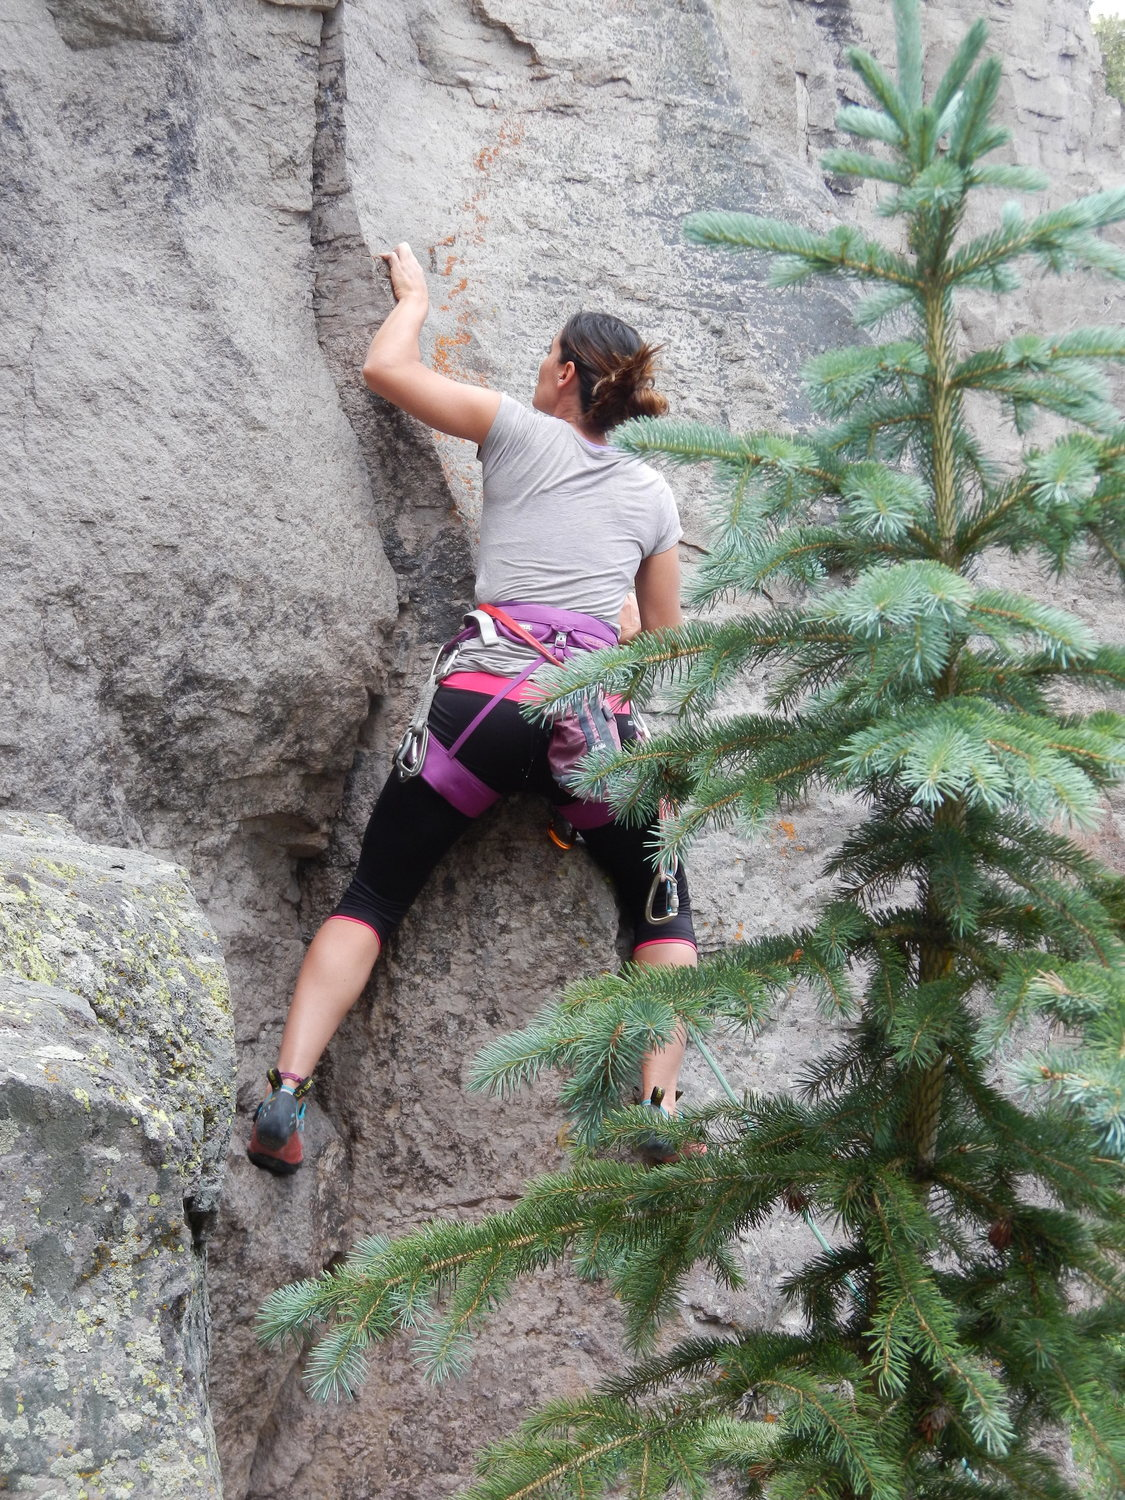
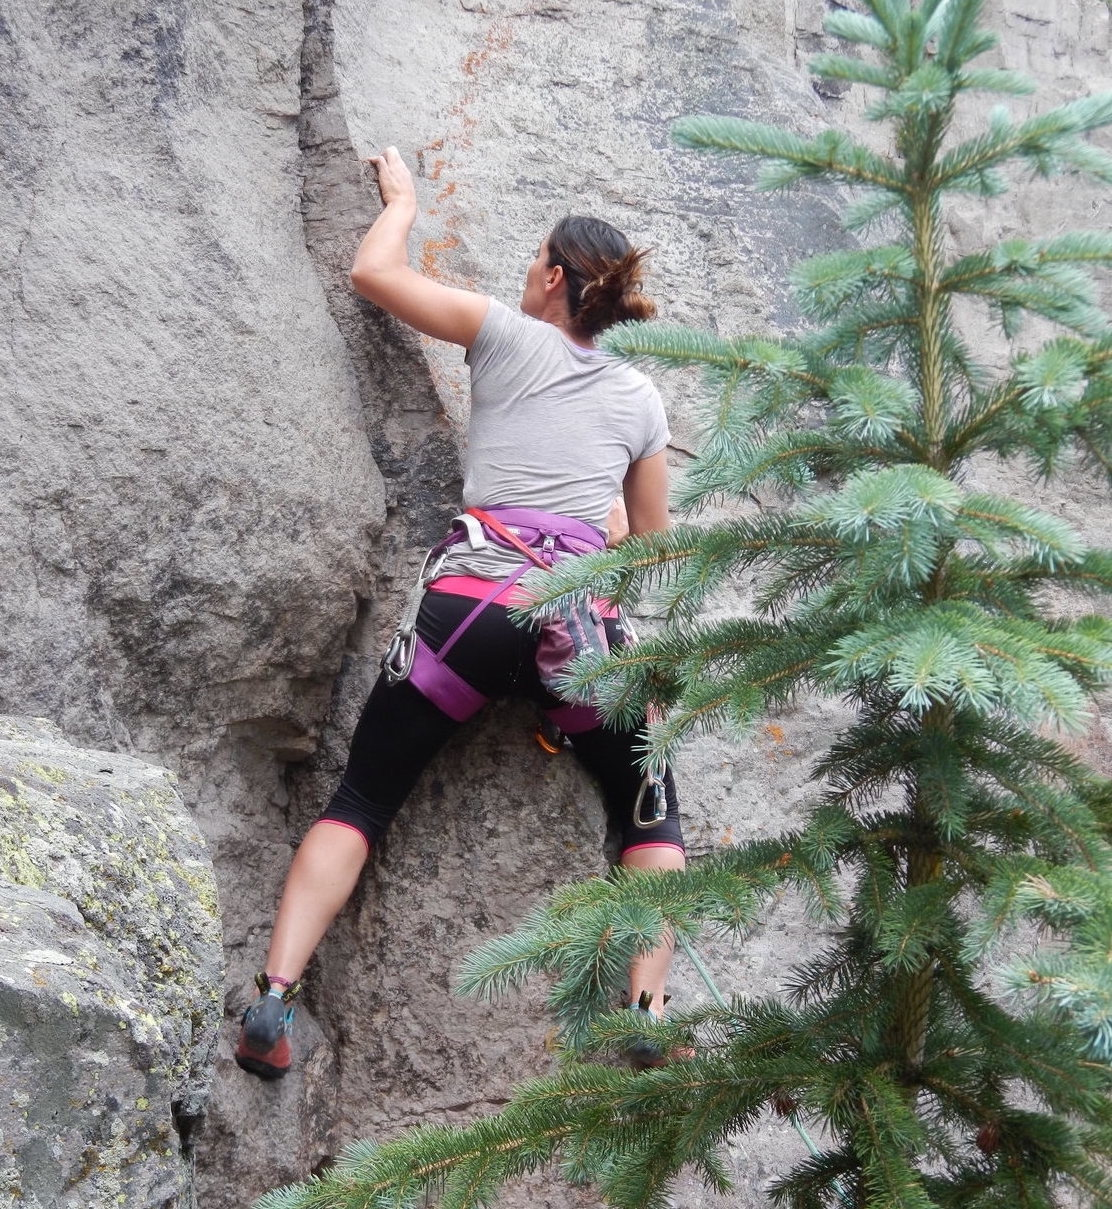
more updates

diff --git a/index.css b/index.css
@@ -90,7 +90,7 @@ img {
   height: 400px;
   width: auto;
   margin-right: 40px;
-  border-radius: 30px;
+  border-radius: 50%;
   
 }
 
@@ -146,7 +146,7 @@ input{
 }
 
 .table img{
-  border-radius: 30px;
+  border-radius: 50%;
   align-items: center;
   align-content: center;
   justify-content: center;
@@ -158,6 +158,7 @@ td img{
     margin-left: auto;
     margin-right: auto;
     margin-bottom: 8%;
+    border-radius: 50%;
 
 }
 

diff --git a/hobbies.html b/hobbies.html
@@ -53,7 +53,7 @@
             <tr>
                 <th id="activities" ><a href="https://www.mountainproject.com" target="_blank">Climbing</a></th>
 
-                <td><img src="images/aquarius.jpg" alt="picture"></td>
+                <td><img src="images/climbing2.jpg" alt="picture"></td>
             </tr>
         </table>
     </div>
